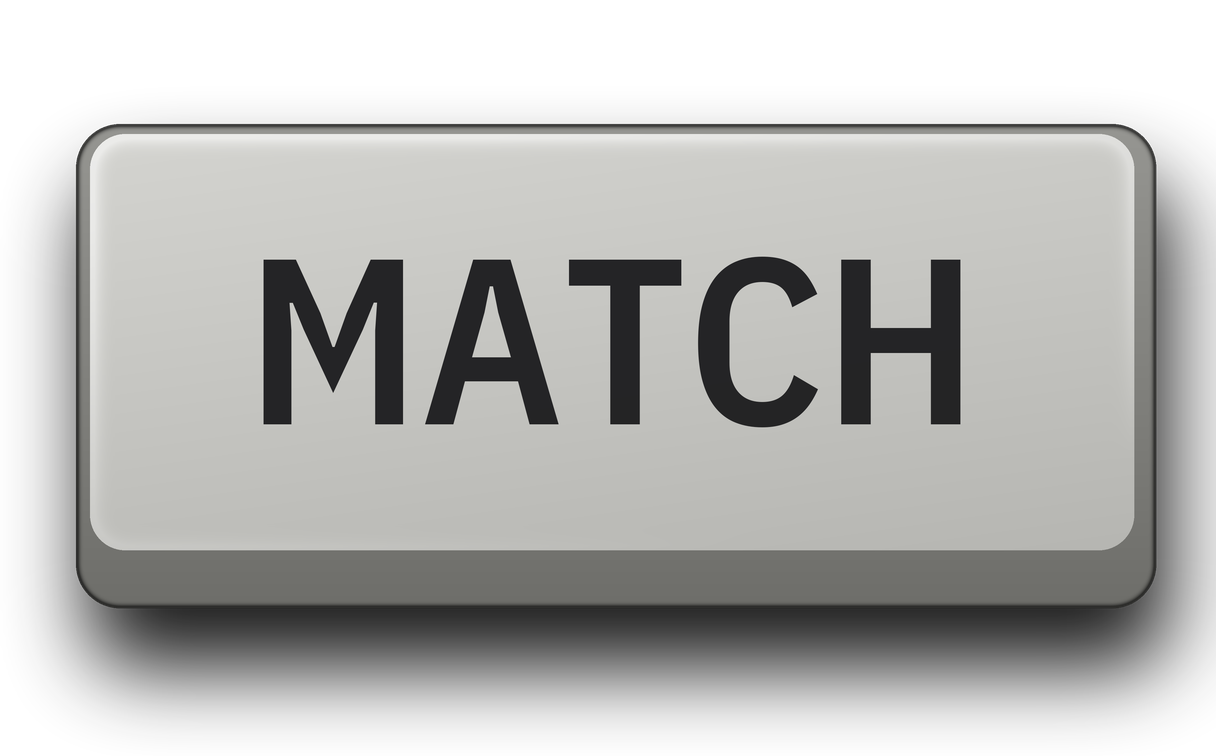
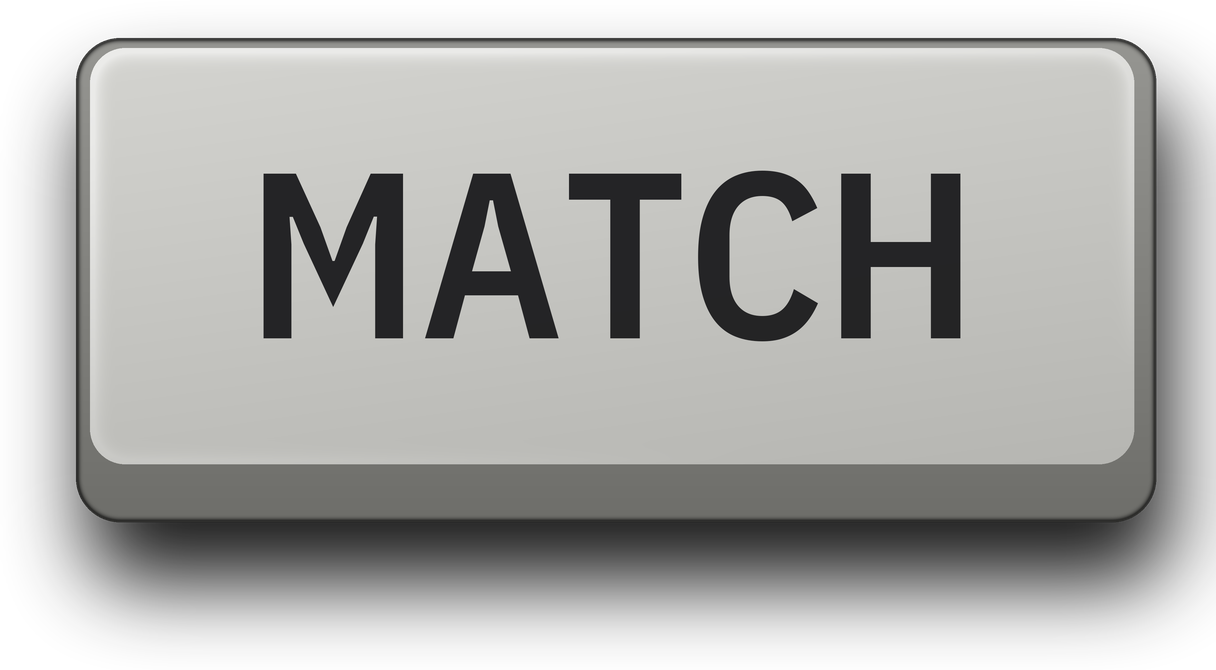
Update background and refactor code.
Add input level meter

diff --git a/Source/GUI/Panels/MainPanel.cpp b/Source/GUI/Panels/MainPanel.cpp
@@ -5,8 +5,8 @@ MainPanel::MainPanel (GuitarToolsAudioProcessor& processor)
 
 {
     //================  GROUP TITLES  ================//
-    for (auto* l : {&cutFiltersGroupLabel, &magicButtonsGroupLabel, &shelfFiltersGroupLabel})
-        setupLabels(l, GTColors::sectionTitleText.withAlpha(0.9f), juce::Justification::centred);
+    // for (auto* l : {&cutFiltersGroupLabel, &magicButtonsGroupLabel, &shelfFiltersGroupLabel})
+    //     setupLabels(l, GTColors::sectionTitleText.withAlpha(0.9f), juce::Justification::centred);
 
     //================  CUT FILTERS ================//
     addAndMakeVisible (lowCutFreqKnob);
@@ -77,12 +77,12 @@ MainPanel::MainPanel (GuitarToolsAudioProcessor& processor)
 
     //================  LEVEL KNOBS  ================//
     for (auto* l : {&inputGainLabel, &outputGainLabel})
-        setupLabels (l, textWhiteColor, juce::Justification::centred);
-
-    for (auto* l : {&levelsLabel, &inputTitleLabel, &outputTitleLabel})
         setupLabels (l, textWhiteColor, juce::Justification::centredTop);
-    inputTitleLabel.setVisible(false);
-    outputTitleLabel.setVisible(false);
+
+    // for (auto* l : {&levelsLabel, &inputTitleLabel, &outputTitleLabel})
+    //     setupLabels (l, textWhiteColor, juce::Justification::centred);
+    // inputTitleLabel.setVisible(false);
+    // outputTitleLabel.setVisible(false);
 
     addAndMakeVisible (inputGainKnob);
     addAndMakeVisible (outputGainKnob);
@@ -93,6 +93,7 @@ MainPanel::MainPanel (GuitarToolsAudioProcessor& processor)
     }
 
     addAndMakeVisible(outputLevelMeter);
+    addAndMakeVisible(inputLevelMeter);
 
     levelMatchButton.setImages (levelMatchButtonOff.get(), nullptr, nullptr, nullptr, levelMatchButtonOn.get());
     levelMatchButton.setClickingTogglesState (true);
@@ -108,16 +109,21 @@ MainPanel::MainPanel (GuitarToolsAudioProcessor& processor)
 
 void MainPanel::paint(juce::Graphics& g)
 {
-    const auto boundsF = getLocalBounds().toFloat();
-    dividerThickness = boundsF.getHeight() * 0.01f;
-    const auto dividerHalf = dividerThickness / 2.0f;
-    const auto dividerGap = dividerThickness * 4.f;
-
-    for (const auto& sectionArea : { cutFiltersArea, shelfFiltersArea })
-        AAUITools::drawRoundedDivider (g, sectionArea.withSizeKeepingCentre (sectionArea.getWidth() - dividerHalf - dividerGap, dividerThickness).withY (sectionTitleH - dividerHalf));
-
-    AAUITools::drawRoundedDivider(g, buttonsArea.withSizeKeepingCentre(buttonsArea.getWidth() - dividerGap, dividerThickness).withY(sectionTitleH - dividerHalf));
-    AAUITools::drawRoundedDivider (g, magicDividerBounds.withSizeKeepingCentre(buttonsArea.getWidth() - dividerHalf - dividerGap , dividerThickness));
+    // const auto boundsF = getLocalBounds().toFloat();
+    // const auto dividerHalf = dividerThickness / 2.0f;
+    // const auto dividerGap = dividerThickness * 4.f;
+    //
+    // for (const auto& sectionArea : { cutFiltersArea, shelfFiltersArea })
+    //     AAUITools::drawRoundedDivider (g, sectionArea.withSizeKeepingCentre (sectionArea.getWidth() - dividerHalf - dividerGap, dividerThickness).withY (sectionTitleH - dividerHalf));
+    //
+    // const juce::Rectangle<float> buttonsAreaDividerBounds {buttonsArea.withSizeKeepingCentre(buttonsArea.getWidth() - dividerGap * 0.5f, dividerThickness)};
+    // AAUITools::drawRoundedDivider(g, buttonsAreaDividerBounds.withY(sectionTitleH - dividerHalf));
+    // AAUITools::drawRoundedDivider (g, magicDividerBounds.withSizeKeepingCentre(buttonsAreaDividerBounds.getWidth(), dividerThickness));
+    //
+    // const auto titleLineThickness = dividerThickness * 0.31f;
+    //
+    // g.setColour (GTColors::sectionTitleText.withAlpha (0.9f));
+    // g.fillRect(cutFiltersArea.withSizeKeepingCentre( cutFiltersArea.getWidth() * 0.925f, titleLineThickness).withY(sectionTitleH));
 }
 
 void MainPanel::resized()
@@ -125,23 +131,21 @@ void MainPanel::resized()
     const auto boundsF = getLocalBounds().toFloat();
     const auto boundsFWidth = boundsF.getWidth();
     const auto boundsFHeight = boundsF.getHeight();
-
+    // dividerThickness = boundsF.getHeight() * 0.008f;
     const auto sideSectionWidth = boundsFWidth * sideSectionPOW;
     cutFiltersArea = boundsF.withSize (sideSectionWidth, boundsFHeight);
     shelfFiltersArea = cutFiltersArea.withRightX(boundsFWidth);
     buttonsArea = boundsF.withSizeKeepingCentre (boundsFWidth - sideSectionWidth * 2.f, boundsFHeight);
 
-    for (const auto l : {&cutFiltersGroupLabel, &magicButtonsGroupLabel, &shelfFiltersGroupLabel})
-       l->setFont (AAFonts::ibmPlexSansSemiBold (boundsFHeight * 0.04f).withExtraKerningFactor(0.1f));
-
-    cutFiltersGroupLabel    .setBounds (cutFiltersArea.withHeight (sectionTitleH).toNearestInt());
-    magicButtonsGroupLabel  .setBounds (buttonsArea.withHeight (sectionTitleH).toNearestInt());
-    shelfFiltersGroupLabel  .setBounds (shelfFiltersArea.withHeight (sectionTitleH).toNearestInt());
+    // for (const auto l : {&cutFiltersGroupLabel, &magicButtonsGroupLabel, &shelfFiltersGroupLabel})
+    //    l->setFont (AAFonts::ibmPlexSansSemiBold (boundsFHeight * 0.04f).withExtraKerningFactor(0.1f));
+    //
+    // cutFiltersGroupLabel    .setBounds (cutFiltersArea.withHeight (sectionTitleH).toNearestInt());
+    // magicButtonsGroupLabel  .setBounds (buttonsArea.withHeight (sectionTitleH).toNearestInt());
+    // shelfFiltersGroupLabel  .setBounds (shelfFiltersArea.withHeight (sectionTitleH).toNearestInt());
 
     resizeKnobs(boundsF);
     resizeMagicButtons(boundsF);
-
-    magicDividerBounds = buttonsArea.withSizeKeepingCentre (plateBounds.getWidth(), boundsF.getHeight() * 0.006f).withY (buttonsArea.getHeight() * 0.75f);
     resizeLevelsSection(boundsF);
 }
 
@@ -159,7 +163,6 @@ void MainPanel::resizeKnobs(const juce::Rectangle<float>& boundsF)
     const auto topKnobsCY = boundsFHeight * 0.25f;
     const auto bottomKnobsCY= boundsFHeight * 0.71f;
     const auto knobSizeReference = boundsFHeight * 0.33f;
-
 
     const auto knobBounds= boundsF.withSize (knobSizeReference, knobSizeReference);
     lowCutFreqKnob.setBounds (knobBounds.withCentre ({cutFiltersArea.getCentreX(), topKnobsCY}).toNearestInt());
@@ -181,8 +184,8 @@ void MainPanel::resizeKnobs(const juce::Rectangle<float>& boundsF)
     presenceFreqButtons.setBounds (knobButtonsBounds.withCentre ({ shelfFiltersArea.getCentreX(), knobButtonsBottomCY }).toNearestInt());
 
     const auto knobButtonsLabelBounds = cutFiltersArea.withSizeKeepingCentre(knobButtonsWidth, knobButtonsHeight * 0.6f);
-    // for (const auto l : {&lowCutSlopeLabel, &highCutSlopeLabel, &presenceModeLabel, &depthModeLabel})
-    //     l->setFont (AAFonts::ibmPlexSansMedium (knobButtonsLabelBounds.getHeight() * 0.825f));
+    for (const auto l : {&lowCutSlopeLabel, &highCutSlopeLabel, &presenceModeLabel, &depthModeLabel})
+        l->setFont (AAFonts::ibmPlexSansMedium (knobButtonsLabelBounds.getHeight() * 0.825f));
 
     const auto knobButtonsLabelGap = knobButtonsHeight * 1.1f;
     lowCutSlopeLabel.setBounds(knobButtonsLabelBounds.withBottomY(knobButtonsTopCY + knobButtonsLabelGap).toNearestInt());
@@ -211,44 +214,48 @@ void MainPanel::resizeMagicButtons(const juce::Rectangle<float>& boundsF)
     mudModeSwitch.setBounds (switchBounds.toNearestInt());
     resoModeSwitch.setBounds (switchBounds.translated (-magicButtonsGap, 0.0f).toNearestInt());
     compModeSwitch.setBounds (switchBounds.translated (magicButtonsGap, 0.0f).toNearestInt());
+
+    // magicDividerBounds = buttonsArea.withSizeKeepingCentre (plateBounds.getWidth(), dividerThickness).withY (switchBounds.getBottom());
 }
 
 void MainPanel::resizeLevelsSection(const juce::Rectangle<float>& boundsF)
 {
-    const auto gainKnobsArea = buttonsArea.withTop (magicDividerBounds.getBottom());
-    const auto gainLabelBounds = gainKnobsArea.withSizeKeepingCentre(boundsF.getHeight() * 0.245f,gainKnobsArea.getHeight() * JUCE_LIVE_CONSTANT(0.15f));
+    const auto gainKnobsArea = buttonsArea.withTop (boundsF.getHeight() * 0.725f);
+    const auto gainLabelBounds = gainKnobsArea.withSizeKeepingCentre(gainKnobsArea.getWidth() * 0.5f,gainKnobsArea.getHeight() * 0.15f);
 
-    for (auto* l : {&levelsLabel, &inputTitleLabel, &outputTitleLabel})
-        setIbmMediumFont (*l, gainLabelBounds.getHeight());
+    // for (auto* l : {&levelsLabel, &inputTitleLabel, &outputTitleLabel})
+    //     setIbmMediumFont (*l, gainLabelBounds.getHeight());
+    //
+    // const auto gainTitleBounds = gainLabelBounds.withY (gainKnobsArea.getY() * 1.01f);
+    // levelsLabel.setBounds(gainTitleBounds.toNearestInt());
 
-    const auto gainTitleBounds = gainLabelBounds.withY (gainKnobsArea.getY());
-    levelsLabel.setBounds(gainTitleBounds.toNearestInt());
-
-    const auto gainKnobSize = gainKnobsArea.getHeight() * JUCE_LIVE_CONSTANT(0.55f);
-    const auto gainKnobCY = buttonsArea.getHeight() * 0.9f;
-    const auto gainKnobBounds = gainKnobsArea.withSize (gainKnobSize, gainKnobSize).withCentre({gainKnobsArea.getCentreX(), gainKnobCY});
-    const auto gainKnobGap = gainKnobSize * JUCE_LIVE_CONSTANT(0.65F);
+    const auto gainKnobSize = gainKnobsArea.getHeight() * 0.5f;
+    const auto gainKnobBounds = gainKnobsArea.withSizeKeepingCentre (gainKnobSize, gainKnobSize);
+    const auto gainKnobGap = gainKnobSize * JUCE_LIVE_CONSTANT(0.6f);
     const auto inputKnobBounds = gainKnobBounds.translated(-gainKnobGap, 0.f);
     const auto outputKnobBounds = gainKnobBounds.translated(gainKnobGap, 0.f);
     inputGainKnob.setBounds (inputKnobBounds.toNearestInt());
     outputGainKnob.setBounds(outputKnobBounds.toNearestInt());
 
-    for (const auto l : { &inputGainLabel, &outputGainLabel})
-        setIbmMediumFont (*l, gainLabelBounds.getHeight() * 0.7f);
+    // const auto knobTitleLabelsCY = gainTitleBounds.getCentreY();
+    // inputTitleLabel.setBounds (gainTitleBounds.withCentre ({gainKnobBounds.getCentreX() - gainKnobGap, knobTitleLabelsCY}).toNearestInt());
+    // outputTitleLabel.setBounds (gainTitleBounds.withCentre ({gainKnobBounds.getCentreX() + gainKnobGap, knobTitleLabelsCY}).toNearestInt());
 
-    const auto knobTitleLabelsCY = gainTitleBounds.getCentreY();
-    inputTitleLabel.setBounds (gainTitleBounds.withCentre ({gainKnobBounds.getCentreX() - gainKnobGap, knobTitleLabelsCY}).toNearestInt());
-    outputTitleLabel.setBounds (gainTitleBounds.withCentre ({gainKnobBounds.getCentreX() + gainKnobGap, knobTitleLabelsCY}).toNearestInt());
+    // for (const auto l : { &inputGainLabel, &outputGainLabel})
+    //     setIbmMediumFont (*l, gainLabelBounds.getHeight() * 0.65f);
+    //
+    // const auto gainValueLabelY = gainKnobBounds.getBottom() * 0.99f;
+    // inputGainLabel.setBounds    (inputKnobBounds.withHeight(gainLabelBounds.getHeight()).withY(gainValueLabelY) .toNearestInt());
+    // outputGainLabel.setBounds   (outputKnobBounds.withHeight(gainLabelBounds.getHeight()).withY(gainValueLabelY) .toNearestInt());
 
-    const auto gainValueLabelY = (gainKnobCY + gainKnobSize * 0.5f) * 0.93f;
-    inputGainLabel.setBounds    (inputKnobBounds.withY(gainValueLabelY) .toNearestInt());
-    outputGainLabel.setBounds   (outputKnobBounds.withY(gainValueLabelY) .toNearestInt());
+    const auto levelsBottomY = gainKnobsArea.getBottom() * 0.99f;
+    const auto levelMeterBounds = gainKnobsArea.withSize(gainKnobsArea.getWidth() * 0.1f,levelsBottomY - gainKnobBounds.getY()).withBottomY(levelsBottomY);
+    const auto inputMeterCX = buttonsArea.getX() + 0.5f * (inputKnobBounds.getX() - buttonsArea.getX());
+    const auto outputMeterCX = outputKnobBounds.getRight() + 0.5f * (buttonsArea.getRight() - outputKnobBounds.getRight());
+    inputLevelMeter.setBounds (levelMeterBounds.withX(inputMeterCX - levelMeterBounds.getWidth() * 0.5f).toNearestInt());
+    outputLevelMeter.setBounds (levelMeterBounds.withX(outputMeterCX - levelMeterBounds.getWidth() * 0.5f).toNearestInt());
 
-    const auto levelMeterW = gainKnobSize * 0.33f;
-    const auto levelMeterBounds = gainKnobsArea.withSize(levelMeterW, gainKnobsArea.getHeight() * 0.7f).withBottomY(gainKnobCY * 1.1f);
-    outputLevelMeter.setBounds (levelMeterBounds.withX(outputKnobBounds.getRight() * JUCE_LIVE_CONSTANT(1.f)).toNearestInt());
-
-    const auto levelMatchW = levelMeterW * 2.f;
+    const auto levelMatchW = levelMeterBounds.getWidth() * 2.5f;
     const auto levelMatchButtonHeight = levelMatchW / levelMatchButtonOn->getDrawableBounds().getAspectRatio();
-    levelMatchButton.setBounds (gainKnobBounds.withSizeKeepingCentre (levelMatchW, levelMatchButtonHeight).withBottomY(levelMeterBounds.getY()).toNearestInt());
+    levelMatchButton.setBounds (gainKnobBounds.withSizeKeepingCentre (levelMatchW, levelMatchButtonHeight).withBottomY(levelsBottomY * 1.01f).toNearestInt());
 }

diff --git a/Source/GUI/Components/AANotchSSLKnob.h b/Source/GUI/Components/AANotchSSLKnob.h
@@ -65,23 +65,17 @@ public:
     {
         const auto boundsF = getLocalBounds().toFloat();
         const auto boundsCentre = boundsF.getCentre();
-        g.setColour(juce::Colours::aliceblue);
-        g.drawRect(boundsF, 1.f);
         const auto sizeRef = juce::jmin (boundsF.getWidth(), boundsF.getHeight());
-        const auto dotSizeRadius = sizeRef * dotSizeAdjuster;
+        const auto dotSizeRadius = sizeRef * 0.0275f;
         const auto dotRingRadius = sizeRef * 0.5f - dotSizeRadius;
         const auto knobBounds = boundsF.reduced (sizeRef * knobBoundsReducer);
-
-
         const auto sliderPos = static_cast<float> (valueToProportionOfLength (getValue()));
         const auto angle = startAngle + sliderPos * (endAngle - startAngle);
-        g.beginTransparencyLayer (isEnabled() ? 0.9f : 0.3f);
+        g.beginTransparencyLayer (isEnabled() ? 0.9f : 0.4f);
         paintLightDots (g, boundsCentre, dotRingRadius, dotSizeRadius, angle);
-
         {
             juce::Graphics::ScopedSaveState state (g);
             g.addTransform (juce::AffineTransform::rotation (angle, boundsCentre.x, boundsCentre.y));
-
             g.setImageResamplingQuality (juce::Graphics::highResamplingQuality);
             g.drawImage (knobImage, knobBounds, juce::RectanglePlacement::centred);
         }
@@ -100,8 +94,6 @@ public:
     }
 
     int numberOfDots {9};
-
-
 private:
 
     void paintLightDots (juce::Graphics& g, juce::Point<float> centre, float dotRingRadius, float dotRadius, float angle)
@@ -117,9 +109,9 @@ private:
             const juce::Point<float> dotDirection (std::sin (dotAngle), -std::cos (dotAngle));
             const auto dotCentre = centre + dotDirection * dotRingRadius;
             const auto isCentreDot = dotIndex == (numberOfDots - 1) / 2;
-            const auto isLit = isCentreDot || (dotAngle >= litFromAngle && dotAngle <= litToAngle);
+            // const auto isLit = isCentreDot || (dotAngle >= litFromAngle && dotAngle <= litToAngle);
             // g.setColour (isLit ? GTColors::activeNeonBlue : GTColors::dividerLinesEnd);
-            g.setColour(GTColors::almostWhite);
+            g.setColour(GTColors::sectionTitleText);
             g.fillEllipse (dotCentre.x - dotRadius, dotCentre.y - dotRadius, dotRadius * 2.0f, dotRadius * 2.0f);
         }
     }
@@ -135,7 +127,7 @@ private:
     juce::Image knobImage = juce::ImageCache::getFromMemory (BinaryData::sslKnotchKnobShadow2_png, BinaryData::sslKnotchKnobShadow2_pngSize);
     const float startAngle { 1.25f * juce::MathConstants<float>::pi };
     const float endAngle { 2.75f * juce::MathConstants<float>::pi };
-    const float dotSizeAdjuster {0.03f};
+    const float dotSizeAdjuster {0.0275f};
     const float knobBoundsReducer {0.f};
 
     bool isDragging {false};

diff --git a/Source/GUI/Panels/MainPanel.h b/Source/GUI/Panels/MainPanel.h
@@ -28,7 +28,7 @@ public:
     void resizeMagicButtons(const juce::Rectangle<float>&);
 
     float sectionTitleH {0};
-    float dividerThickness{0.f};
+    // float dividerThickness{0.f};
     float sideSectionPOW {0.32f};
 
 private:
@@ -44,8 +44,9 @@ private:
         l.setFont (AAFonts::ibmPlexSansMedium(fontHeight).withExtraKerningFactor(0.04f));
     }
 
-    juce::Rectangle<float> cutFiltersArea, buttonsArea, shelfFiltersArea, plateBounds, magicDividerBounds;
-    juce::Label cutFiltersGroupLabel {{}, "TONE RANGE"}, magicButtonsGroupLabel {{}, "CLEAN-UP"}, shelfFiltersGroupLabel {{}, "COLOR"};
+    juce::Rectangle<float> cutFiltersArea, buttonsArea, shelfFiltersArea, plateBounds;
+    // juce::Rectangle<float> magicDividerBounds;
+    // juce::Label cutFiltersGroupLabel {{}, "TONE RANGE"}, magicButtonsGroupLabel {{}, "CLEAN-UP"}, shelfFiltersGroupLabel {{}, "COLOR"};
 
     AALightStrokeKnob lowCutFreqKnob {*audioProcessor.treeState.getParameter (ParamIDs::getLowCutFreqName()), "LOW CUT", false, false};
     AALightStrokeKnob highCutFreqKnob {*audioProcessor.treeState.getParameter (ParamIDs::getHighCutFreqName()), "HIGH CUT", false, true};
@@ -80,16 +81,16 @@ private:
     juce::Label outputGainLabel {{}, "OUT"};
     AANotchSSLKnob inputGainKnob {*audioProcessor.treeState.getParameter (ParamIDs::getInputGainName()), &inputGainLabel};
     AANotchSSLKnob outputGainKnob {*audioProcessor.treeState.getParameter (ParamIDs::getOutputGainName()), &outputGainLabel};
-    juce::Label levelsLabel {{}, "LEVELS"};
-    juce::Label inputTitleLabel {{}, "INPUT"};
-    juce::Label outputTitleLabel {{}, "OUTPUT"};
+    // juce::Label levelsLabel {{}, "LEVELS"};
+    // juce::Label inputTitleLabel {{}, "INPUT"};
+    // juce::Label outputTitleLabel {{}, "OUTPUT"};
 
     GTLevelMeter outputLevelMeter{audioProcessor.outputLevelLeft, audioProcessor.outputLevelRight};
+    GTLevelMeter inputLevelMeter{audioProcessor.inputLevelLeft, audioProcessor.inputLevelRight};
     std::unique_ptr<juce::Drawable> levelMatchButtonOn {juce::Drawable::createFromImageData (BinaryData::matchButton_on_png, BinaryData::matchButton_on_pngSize)};
     std::unique_ptr<juce::Drawable> levelMatchButtonOff {juce::Drawable::createFromImageData (BinaryData::matchButton_off_png, BinaryData::matchButton_off_pngSize)};
     juce::DrawableButton levelMatchButton {"levelMatchButton", juce::DrawableButton::ImageFitted};
     std::unique_ptr<juce::ButtonParameterAttachment> levelMatchButtonAttachment;
-
     FadersPlatePanel fadersPlatePanel {audioProcessor};
 
     JUCE_DECLARE_NON_COPYABLE_WITH_LEAK_DETECTOR (MainPanel)

diff --git a/Source/PluginEditor.cpp b/Source/PluginEditor.cpp
@@ -173,17 +173,18 @@ void GuitarToolsAudioProcessorEditor::resized()
     const auto contentHeight = boundsFWidth * (float) uiResize.defaultHeight / (float) uiResize.defaultWidth;
     const float headerH = contentHeight * headerHeightRatio;
     const auto tooltipsPanelH = tooltipsPanel.isVisible() ? headerH * tooltipsHeightRatio : 0.0f;
-
     headerPanel.setBounds (boundsF.withHeight (headerH).toNearestInt());
     tooltipsPanel.setBounds (boundsF.withHeight (tooltipsPanelH).withY (contentHeight).toNearestInt());
-
     imageBounds = boundsF.withHeight (contentHeight - headerH).withY (headerH);
-    const auto mainPanelBounds = imageBounds.withSizeKeepingCentre(imageBounds.getWidth(), imageBounds.getHeight() * 0.98f);
+
+    const auto mainPanelBounds = imageBounds.withSizeKeepingCentre(imageBounds.getWidth(), imageBounds.getHeight() * 0.977f);
     mainPanel.sectionTitleH = mainPanelBounds.getHeight() * 0.07f;
     mainPanel.setBounds (mainPanelBounds.toNearestInt());
 
-    const auto resizeButtonSize = contentHeight * 0.04f;
-    const auto resizeBtnBounds = mainPanelBounds.withSize(resizeButtonSize, resizeButtonSize).withRightX(mainPanelBounds.getWidth()).withBottomY(mainPanelBounds.getBottom());
+    const auto resizeButtonSize = contentHeight * 0.0375f;
+    const auto resizeBtnGap = resizeButtonSize * 0.5f;
+    const auto resizeBtnBounds = mainPanelBounds.withSize(resizeButtonSize, resizeButtonSize)
+                                                .withCentre({mainPanelBounds.getWidth() - resizeBtnGap, mainPanelBounds.getBottom() - resizeBtnGap});
     resizeButton.setBounds (resizeBtnBounds.toNearestInt());
 
     const auto rowH = headerH * 0.65f;

diff --git a/Source/PluginEditor.h b/Source/PluginEditor.h
@@ -66,8 +66,7 @@ private:
     SettingsOptionsPanel settingsOptionsPopup {uiResize, audioProcessor.showTooltips};
     AAListOptionsPopup resizeOptionsPopup;
     juce::DrawableButton resizeButton {"GUI Size", juce::DrawableButton::ImageFitted};
-    // juce::Image greyBackground = juce::ImageCache::getFromMemory (BinaryData::clearGrey2_3000_png, BinaryData::clearGrey2_3000_pngSize);
-    juce::Image backgroundWithDividers = juce::ImageCache::getFromMemory (BinaryData::mainPanelBackgroundTextured_png, BinaryData::mainPanelBackgroundTextured_pngSize);
+    juce::Image backgroundWithDividers = juce::ImageCache::getFromMemory (BinaryData::mainPanelBackgroundTexturedUnderline_png, BinaryData::mainPanelBackgroundTexturedUnderline_pngSize);
 
     JUCE_DECLARE_NON_COPYABLE_WITH_LEAK_DETECTOR (GuitarToolsAudioProcessorEditor)
 };

diff --git a/Source/PluginProcessor.h b/Source/PluginProcessor.h
@@ -71,12 +71,12 @@ public:
     static juce::AudioProcessorValueTreeState::ParameterLayout createParameterLayout();
     juce::UndoManager undoManager { 100000, 100 };
     juce::AudioProcessorValueTreeState treeState {*this, &undoManager, "Parameters", createParameterLayout()};
-    
-    
+
     juce::String currentPresetName;
     float uiScale {0.0f};
     bool showTooltips {false};
 
+    std::atomic<float> inputLevelLeft {0.f}, inputLevelRight {0.f};
     std::atomic<float> outputLevelLeft {0.f}, outputLevelRight {0.f};
 
 private:
@@ -86,7 +86,6 @@ private:
     
     GTFilters filters;
     ChainSettings getChainSettings() const;
-
 
 // PARAMETER POINTERS
     juce::AudioParameterFloat* lowCutFreqParam {nullptr};

diff --git a/Source/PluginProcessor.cpp b/Source/PluginProcessor.cpp
@@ -198,7 +198,9 @@ void GuitarToolsAudioProcessor::processBlock (juce::AudioBuffer<float>& buffer, 
 
 //========================    LEVELS part    ========================
         applyGain(chunk, inputGain);
-
+        inputLevelLeft.store(juce::jmax(inputLevelLeft.load(), chunk.getMagnitude(0, 0, chunkLength)));
+        if (chunk.getNumChannels() > 1)
+            inputLevelRight.store(juce::jmax(inputLevelRight.load(), chunk.getMagnitude(1, 0, chunkLength)));
 //========================    EQ part    ========================
         filters.process(chunk);
 

diff --git a/Source/GUI/Components/GTLevelMeter.h b/Source/GUI/Components/GTLevelMeter.h
@@ -17,7 +17,7 @@ public:
         const auto boundsFWidth = boundsF.getWidth();
         const auto boundsFHeight = boundsF.getHeight();
 
-        const auto barWidth = boundsFWidth * 0.49f;
+        const auto barWidth = boundsFWidth * 0.475f;
         const auto cornerSize = barWidth * 0.12f;
         const auto slotInset = barWidth * 0.1f;
         const auto segmentPitch = (boundsFHeight - slotInset * 2.f) / static_cast<float> (numberOfSegments);
